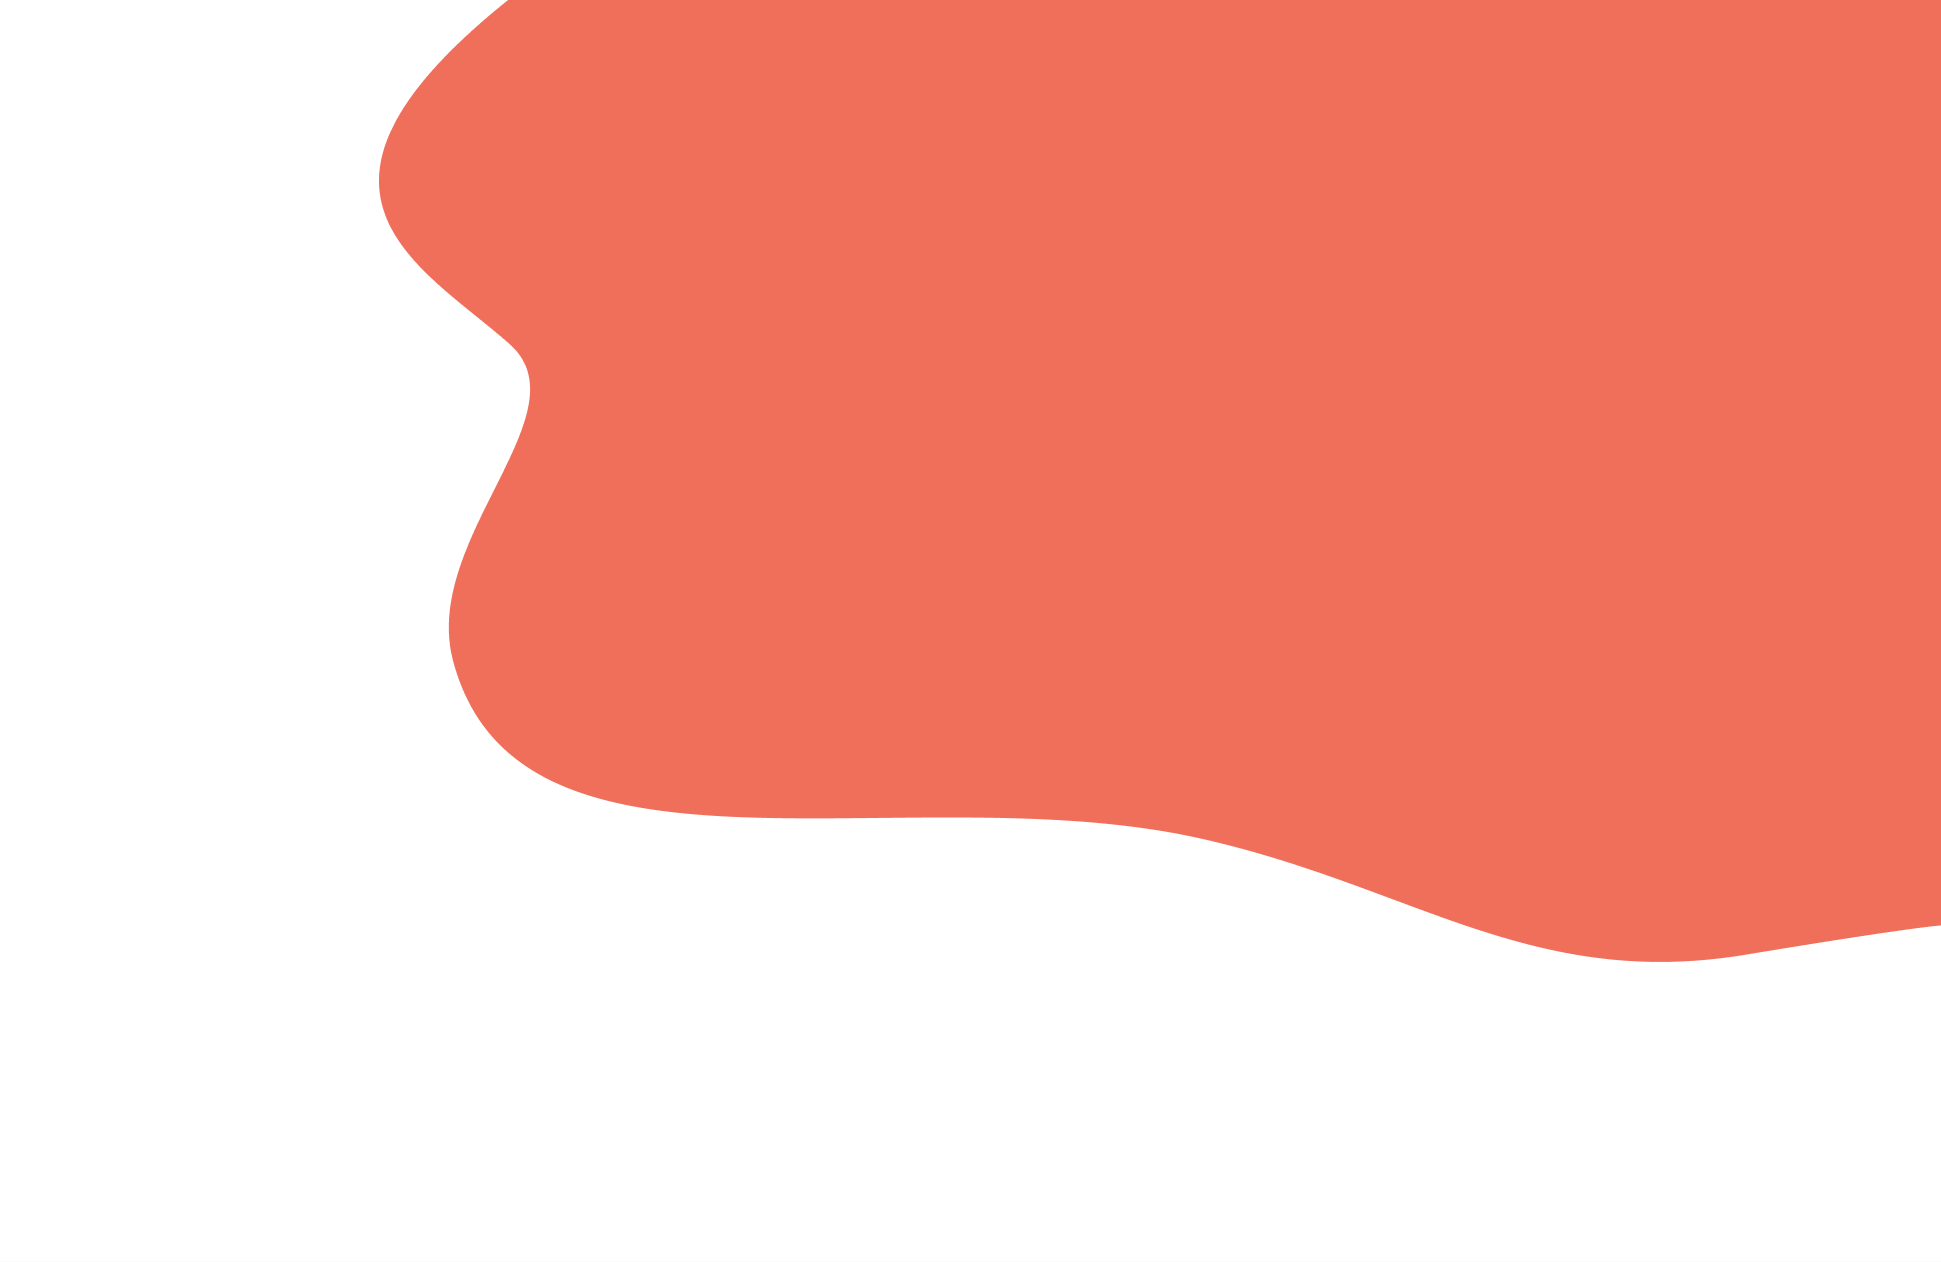
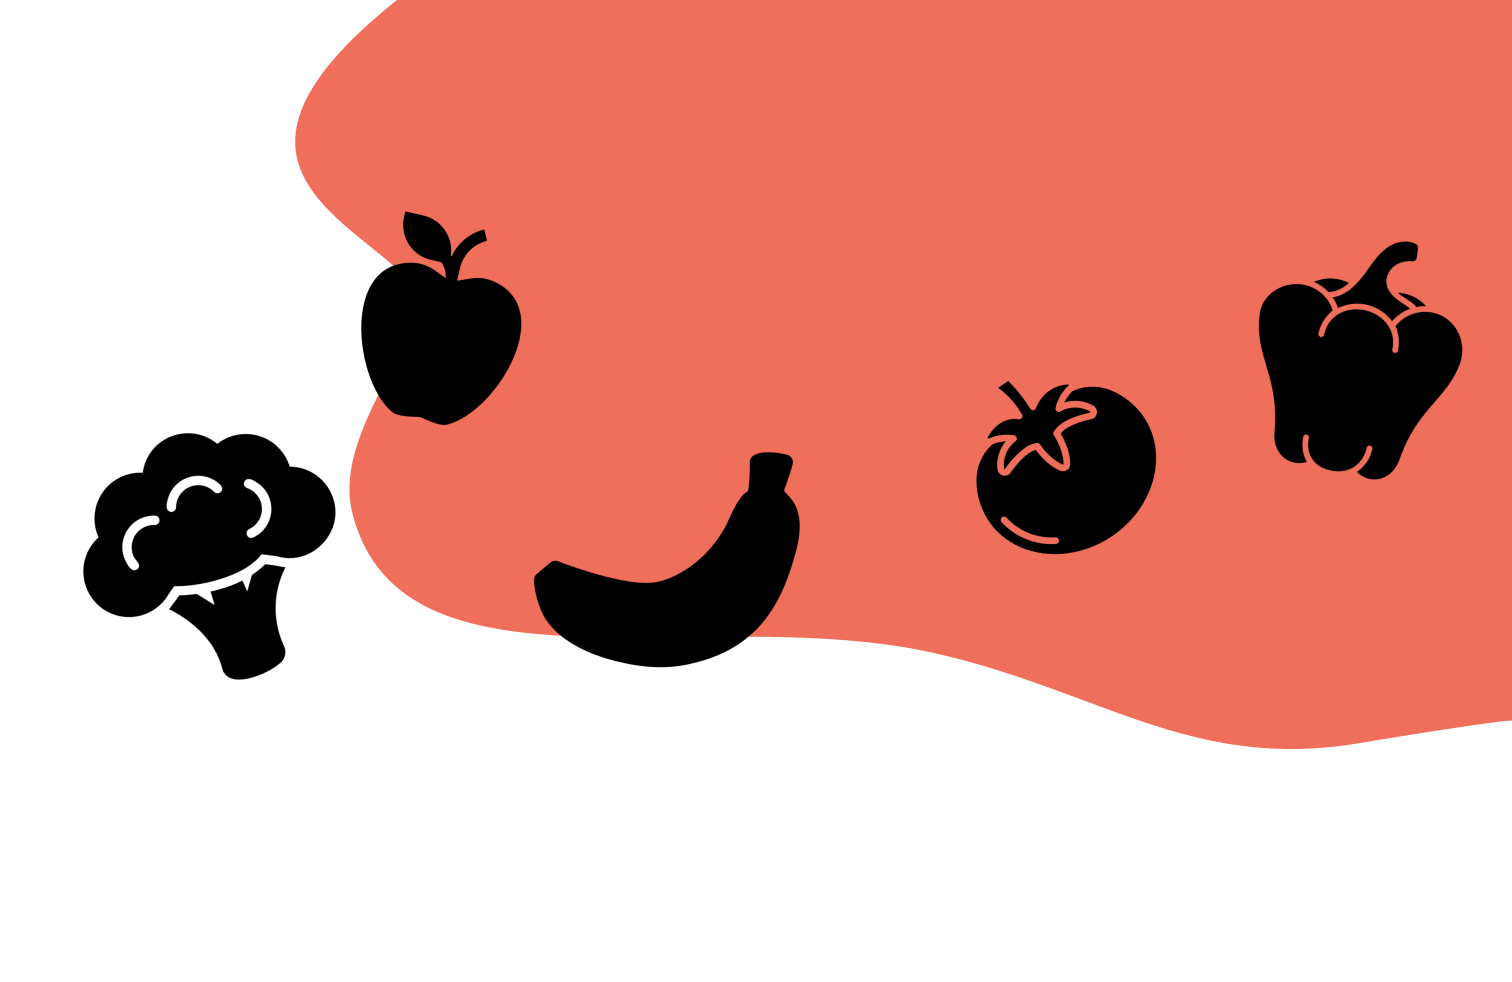
홈페이지 수정1

diff --git a/frontend/src/App.js b/frontend/src/App.js
@@ -2,14 +2,11 @@
 import React from "react";
 import { Routes, Route, Link } from "react-router-dom";
 import "./App.css";
-import searchIcon from "./images/search.png";
-import notiIcon from "./images/noti.png";
-import IngredientsPage from "./IngredientsPage";
-import RecipePage from "./RecipePage";
-import WastePage from "./WastePage";
+import IngredientsPage from "./pages/IngredientsPage";
+import WastePage from "./pages/WastePage";
 import MainLayout from "./layouts/MainLayout";
-
 import Home from "./pages/Home";
+
 import RecipeSaved from "./pages/RecipeSaved";
 import RecipeSearch from "./pages/RecipeSearch";
 import RecipeDetail from "./pages/RecipeDetail";
@@ -17,78 +14,18 @@ import WeeklyPlan from "./pages/WeeklyPlan";
 import ExpireAlert from "./pages/ExpireAlert";
 
 
-// 메인(홈) 화면 컴포넌트
-function Home() {
-  return (
-    <div className="app">
-      <header className="header">
-        {/* 로고 클릭 시 항상 홈("/")으로 */}
-        <Link to="/" className="logo-link">
-          FreshLens
-        </Link>
-
-        <nav className="nav" style={{ fontSize: "60px" }}>
-          <Link to="/ingredients">식재료</Link>
-          <Link to="/recipe">레시피</Link>
-          <Link to="/weekly">주간식단</Link>
-          <Link to="/waste">폐기량</Link>
-        </nav>
-
-        <div className="header-icons">
-          <button className="icon-btn" aria-label="검색">
-            <img
-              src={searchIcon}
-              alt="검색"
-              style={{ width: 28, height: 28 }}
-            />
-          </button>
-
-          <button className="icon-btn" aria-label="알림 설정">
-            <img
-              src={notiIcon}
-              alt="알림 설정"
-              style={{ width: 28, height: 28 }}
-            />
-          </button>
-        </div>
-      </header>
-
-      {/* 검정 아이콘(브로콜리, 사과, 바나나, 토마토, 파프리카) */}
-      <div className="deco deco1" />
-      <div className="deco deco2" />
-      <div className="deco deco3" />
-      <div className="deco deco4" />
-      <div className="deco deco5" />
-    </div>
-  );
-}
-
 // 라우팅만 담당하는 App 컴포넌트
 function App() {
   return (
     <Routes>
-      {/* 메인 페이지: / */}
-      <Route path="/" element={<Home />} />
-
-      {/* 식재료 페이지: /ingredients */}
-      <Route path="/ingredients" element={<IngredientsPage />} />
-
-      {/* 레시피 페이지: /recipe */}
-      <Route path="/recipe" element={<RecipePage />} />
-
-      {/* 폐기량 페이지: /waste */}
-      <Route path="/waste" element={<WastePage />} />
-
-      {/* 주간식단 페이지는 나중에 추가할 예정이면
-          <Route path="/weekly" element={<WeeklyPage />} /> 이런 식으로 추가 */}
-
-
       <Route element={<MainLayout />}>
       <Route path="/" element={<Home />} /> 
+      <Route path="/ingredients" element={<IngredientsPage />} />
       <Route path="/recipes/saved" element={<RecipeSaved />} />
       <Route path="/recipes/search" element={<RecipeSearch />} />
       <Route path="/recipes/:id" element={<RecipeDetail />} />
       <Route path="/weekly-plan" element={<WeeklyPlan />} />
+      <Route path="/waste" element={<WastePage />} />
       <Route path="/alerts" element={<ExpireAlert />} />
       </Route>
     </Routes>

diff --git a/frontend/src/pages/WastePage.js b/frontend/src/pages/WastePage.js
@@ -45,31 +45,7 @@ function WastePage() {
       {/* 가운데 흰색 카드 프레임 */}
       <div className="frame">
         {/* 상단 흰색 헤더 */}
-        <header className="topbar">
-          {/* 왼쪽 햄버거 메뉴 */}
-          <button className="menu-btn" aria-label="메뉴 열기">
-            <span />
-            <span />
-            <span />
-          </button>
 
-          {/* 가운데 FreshLens 로고 텍스트 */}
-          <div className="topbar-logo">FreshLens</div>
-
-          {/* 오른쪽 검색 / 알림 – 이미지는 네가 로고로 채우면 됨 */}
-          <div className="topbar-icons">
-            <button
-              className="icon-btn search-icon"
-              aria-label="검색"
-              type="button"
-            />
-            <button
-              className="icon-btn notification-icon"
-              aria-label="알림"
-              type="button"
-            />
-          </div>
-        </header>
 
         {/* 오렌지색 WASTE 영역 */}
         <section className="waste-hero">

diff --git a/frontend/src/App.css b/frontend/src/App.css
@@ -29,51 +29,7 @@ body {
   pointer-events: none; /* 클릭 방해 안 하도록 */
 }
 
-/* 각각 다른 이미지 + 위치 + 기울기 */
-.deco1 {
-  background-image: url("./images/deco1.png"); /* 사과 */
-  top: 22%;
-  left: 18%;
-  transform: rotate(-12deg);
-  width: 450px; 
-  height: 450px;
-}
 
-.deco2 {
-  background-image: url("./images/deco2.png"); /* 브로콜리 */
-  bottom: 14%;
-  left: 10%;
-  transform: rotate(8deg);
-  width: 450px; 
-  height: 450px;
-}
-
-.deco3 {
-  background-image: url("./images/deco3.png"); /* 바나나 */
-  bottom: 36%;
-  left: 42%;
-  transform: rotate(15deg);
-  width: 450px; 
-  height: 450px;
-}
-
-.deco4 {
-  background-image: url("./images/deco4.png"); /* 토마토 */
-  top: 40%;
-  right: 24%;
-  transform: rotate(-10deg);
-  width: 450px; 
-  height: 450px;
-}
-
-.deco5 {
-  background-image: url("./images/deco5.png"); /* 파프리카 */
-  top: 22%;
-  right: 8%;
-  transform: rotate(6deg);
-  width: 450px; 
-  height: 450px;
-}
 
 /* 상단 메뉴바 */
 .header {

diff --git a/frontend/src/pages/IngredientsPage.css b/frontend/src/pages/IngredientsPage.css
@@ -6,11 +6,10 @@
 }
 
 /* 페이지 전체 – 배경 이미지 */
-.recipe-page {
+.ingredients-page {
   min-height: 100vh;
   width: 100vw;
   background-color: #f5f5f5;
-  background-image: url("./images/recipepage.png");
   background-repeat: no-repeat;
   background-size: 100% auto; /* 좌우 꽉 차게 */
   background-position: top center;
@@ -23,7 +22,7 @@
 }
 
 /* 중앙 카드 */
-.recipe-card {
+.ingredients-card {
   width: 100%;
   max-width: 1500px;
   background: #ffffff;
@@ -34,7 +33,7 @@
 }
 
 /* 상단 폼 영역 – 좌우 두 칸 */
-.recipe-card-top {
+.ingredients-card-top {
   display: grid;
   grid-template-columns: 1.1fr 1.4fr;
   gap: 32px;
@@ -88,7 +87,7 @@
 }
 
 /* 오른쪽 입력 폼 */
-.recipe-form {
+.ingredients-form {
   display: flex;
   flex-direction: column;
   gap: 12px;

diff --git a/frontend/src/pages/IngredientsPage.js b/frontend/src/pages/IngredientsPage.js
@@ -1,6 +1,5 @@
-// src/RecipePage.js
 import React, { useState } from "react";
-import "./RecipePage.css";
+import "./IngredientsPage.css";
 
 // 데이터베이스로 연결될거라 지워도 됩니다. 시각화용
 const initialData = [
@@ -37,7 +36,7 @@ function getDdayClass(expiryStr) {
   return "dday";                                  // 그 외
 }
 
-function RecipePage() {
+function IngredientsPage() {
   const [ingredients, setIngredients] = useState(initialData);
   const [form, setForm] = useState({
     name: "",
@@ -235,4 +234,4 @@ function RecipePage() {
   );
 }
 
-export default RecipePage;
+export default IngredientsPage;

diff --git a/frontend/src/layouts/Header.js b/frontend/src/layouts/Header.js
@@ -13,11 +13,12 @@ const Header = () => {
         </div>
 
         <nav className="nav">
-          {/* <Link to="/">식재료 등록</Link>
-          <Link to="/">식재료 목록</Link> */}
+          <Link to="/ingredients">식재료 등록</Link>
+          <Link to="/">식재료 목록</Link>
           <Link to="/recipes/saved">레시피</Link>
           <Link to="/weekly-plan">주간 식단</Link>
           <Link to="/alerts">알림</Link>
+          <Link to="/waste">폐기량</Link>
         </nav>
       </div>
     </header>

diff --git a/frontend/src/pages/RecipeSaved.css b/frontend/src/pages/RecipeSaved.css
@@ -104,8 +104,8 @@
 }
 
 .icon-btn {
-  padding: 10px 14px;
-  font-size: 20px;
+  padding: 14px 14px;
+  font-size: 15px;
   border: 1px solid #ccc;
   background: white;
   border-radius: 8px;

diff --git a/frontend/src/index.js b/frontend/src/index.js
@@ -1,6 +1,5 @@
 import React from 'react';
 import ReactDOM from 'react-dom/client';
-import './index.css';
 import App from './App';
 import { BrowserRouter } from "react-router-dom";
 

diff --git a/frontend/src/layouts/Header.css b/frontend/src/layouts/Header.css
@@ -22,6 +22,7 @@
 .logo {
   font-size: 22px;
   font-weight: 700;
+  align-items: left;
   color: var(--primary);
 }
 .logo-link {
